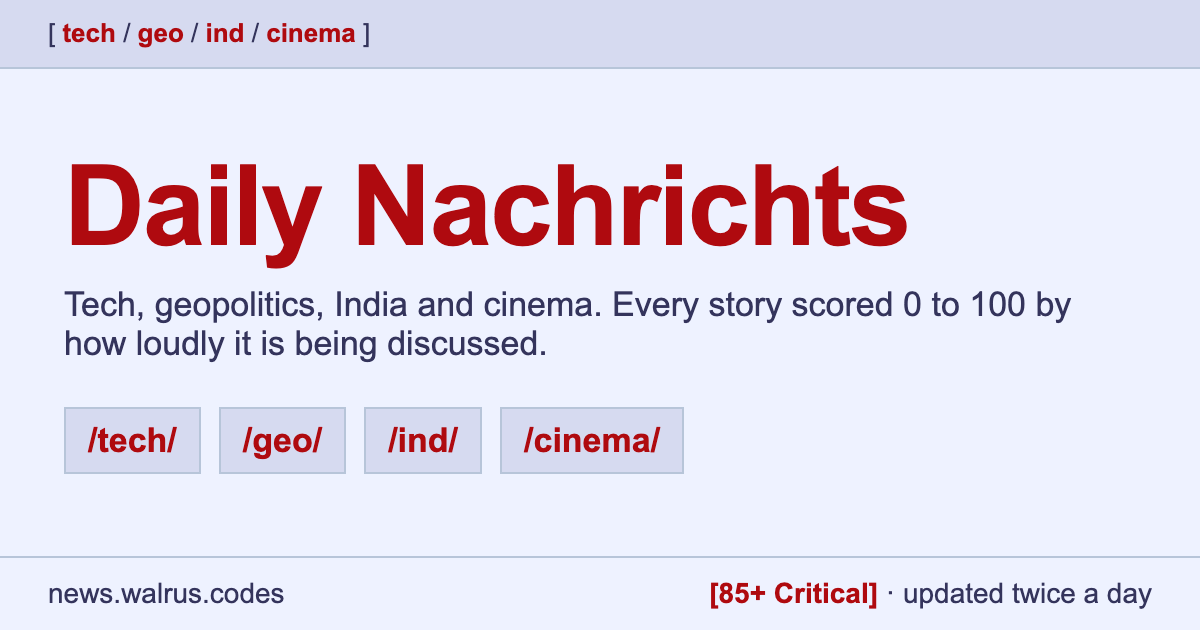
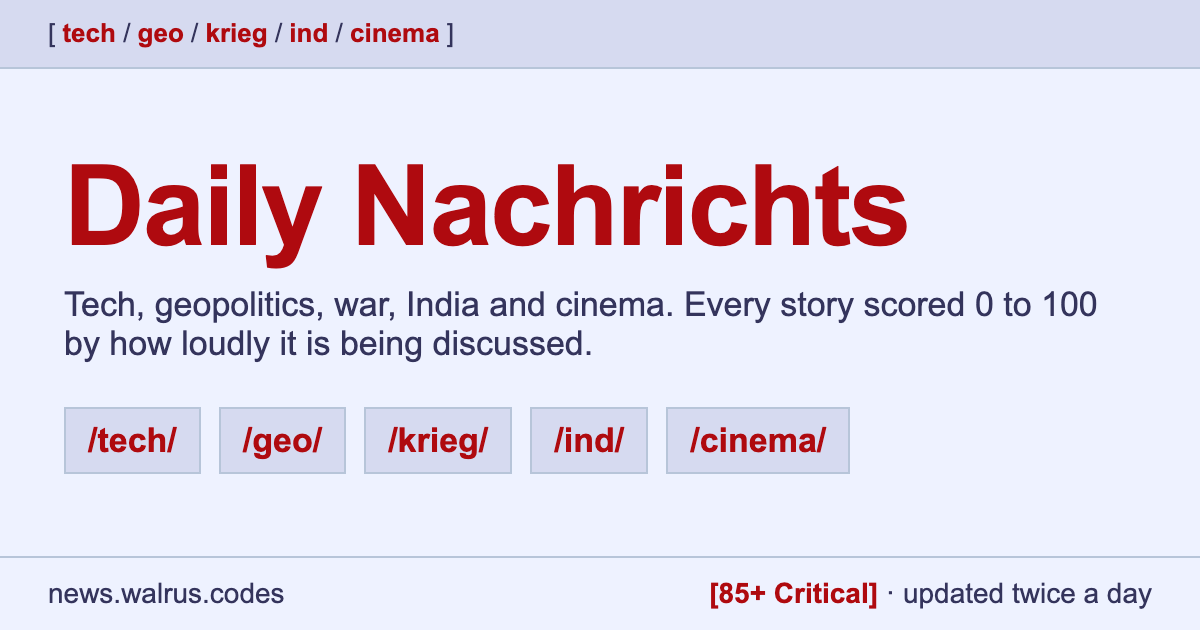
feat(krieg): add /krieg/ board for wars and armed conflicts

Changed region(s): [[0.0617, 0.4524, 0.925, 0.573], [0.3392, 0.6333, 0.7092, 0.754], [0.1542, 0.0302, 0.37, 0.0905]]

diff --git a/public/index.html b/public/index.html
@@ -8,20 +8,20 @@
 <meta property="og:type" content="website">
 <meta property="og:site_name" content="Daily Nachrichts">
 <meta property="og:title" content="Daily Nachrichts">
-<meta property="og:description" content="Tech, geopolitics, India and cinema, one board each, every story scored 0 to 100 by how loudly it is being discussed.">
+<meta property="og:description" content="Tech, geopolitics, war, India and cinema, one board each, every story scored 0 to 100 by how loudly it is being discussed.">
 <meta property="og:url" content="https://news.walrus.codes/">
 <meta property="og:image" content="https://news.walrus.codes/og.png">
 <meta property="og:image:type" content="image/png">
 <meta property="og:image:width" content="1200">
 <meta property="og:image:height" content="630">
-<meta property="og:image:alt" content="Daily Nachrichts: tech, geo, ind and cinema boards">
+<meta property="og:image:alt" content="Daily Nachrichts: tech, geo, krieg, ind and cinema boards">
 <meta name="twitter:card" content="summary_large_image">
 <meta name="twitter:image" content="https://news.walrus.codes/og.png">
-<meta name="description" content="Tech, geopolitics, India and cinema, one board each, every story scored by how loudly it is being discussed.">
+<meta name="description" content="Tech, geopolitics, war, India and cinema, one board each, every story scored by how loudly it is being discussed.">
 <link rel="stylesheet" href="/style.css">
 </head>
 <body>
-<div class="boardlist">[<a href="/tech/">tech</a> / <a href="/geo/">geo</a> / <a href="/ind/">ind</a> / <a href="/cinema/">cinema</a>]</div>
+<div class="boardlist">[<a href="/tech/">tech</a> / <a href="/geo/">geo</a> / <a href="/krieg/">krieg</a> / <a href="/ind/">ind</a> / <a href="/cinema/">cinema</a>]</div>
 <div class="banner">
   <h1>Daily Nachrichts</h1>
   <div class="sub" id="edition">loading</div>
@@ -46,7 +46,7 @@
   Score = how loudly a story is being talked about (0 to 100): 85+ Critical, 70-84 High, 40-69 Moderate, under 40 Low. Not an importance score.<br>
   <span id="stamp"></span>
 </div>
-<div class="boardlist bottom">[<a href="/tech/">tech</a> / <a href="/geo/">geo</a> / <a href="/ind/">ind</a> / <a href="/cinema/">cinema</a>]</div>
+<div class="boardlist bottom">[<a href="/tech/">tech</a> / <a href="/geo/">geo</a> / <a href="/krieg/">krieg</a> / <a href="/ind/">ind</a> / <a href="/cinema/">cinema</a>]</div>
 
 <script src="/day.js"></script>
 <script>
@@ -59,7 +59,7 @@
       // One entry per date: all Phoenix runs of that day merged (see /day.js). ?d=YYYY-MM-DD picks a past day.
       const { days, day, isLatest, data: d } = await Nachrichts.loadDay(new URLSearchParams(location.search));
       const q = day && !isLatest ? `?d=${encodeURIComponent(day.date)}` : '';
-      document.querySelectorAll('a[href="/tech/"], a[href="/geo/"], a[href="/ind/"], a[href="/cinema/"]').forEach(a => a.setAttribute('href', a.getAttribute('href') + q));
+      document.querySelectorAll('a[href="/tech/"], a[href="/geo/"], a[href="/krieg/"], a[href="/ind/"], a[href="/cinema/"]').forEach(a => a.setAttribute('href', a.getAttribute('href') + q));
       $('#editions').innerHTML = days.map((e, i) => {
         const here = day && day.date === e.date;
         const label = here ? `<b>${esc(e.label)}</b>` : esc(e.label);
@@ -71,7 +71,7 @@
       $('#standfirst').textContent = d.standfirst || '';
       $('#notes').innerHTML = (d.notes || []).map(n => `<li>${esc(n)}</li>`).join('');
       $('#stamp').textContent = `Generated ${d.generated} by ${d.model}`;
-      // Zurzeit: one group per news board (tech, geo, ind, and cinema from 2026-10-27), each with its five loudest threads.
+      // Zurzeit: one group per news board (tech, geo, ind, cinema from 2026-10-27, krieg from 2026-10-30), each with its five loudest threads.
       // Owner request 2026-10-23: "only 3 /category/ things on in that zurzeit thing" (one group per board, not more).
       $('#popular').innerHTML = d.sections.map(sec => {
         const tag = Nachrichts.slug(sec.id);

diff --git a/public/krieg/index.html b/public/krieg/index.html
@@ -1,0 +1,41 @@
+<!doctype html>
+<html lang="en">
+<head>
+<meta charset="utf-8">
+<meta name="viewport" content="width=device-width, initial-scale=1">
+<title>/krieg/ - Krieg - Daily Nachrichts</title>
+<meta name="description" content="Wars and armed conflicts around the world, from Iran and Ukraine to Gaza, Sudan and beyond, scored by how loudly they are being discussed.">
+<!-- Link previews (WhatsApp, iMessage, X, Slack). Owner request 2026-10-27: "put something there so that when I send it on whatsapp to someone they see a thumbnail." -->
+<meta property="og:type" content="website">
+<meta property="og:site_name" content="Daily Nachrichts">
+<meta property="og:title" content="/krieg/ - Krieg - Daily Nachrichts">
+<meta property="og:description" content="Wars and armed conflicts around the world, from Iran and Ukraine to Gaza, Sudan and beyond, scored by how loudly they are being discussed.">
+<meta property="og:url" content="https://news.walrus.codes/krieg/">
+<meta property="og:image" content="https://news.walrus.codes/og.png">
+<meta property="og:image:type" content="image/png">
+<meta property="og:image:width" content="1200">
+<meta property="og:image:height" content="630">
+<meta property="og:image:alt" content="Daily Nachrichts: tech, geo, krieg, ind and cinema boards">
+<meta name="twitter:card" content="summary_large_image">
+<meta name="twitter:image" content="https://news.walrus.codes/og.png">
+<link rel="stylesheet" href="/style.css">
+</head>
+<body data-board="krieg">
+<div class="boardlist">[<a href="/tech/">tech</a> / <a href="/geo/">geo</a> / <a href="/krieg/">krieg</a> / <a href="/ind/">ind</a> / <a href="/cinema/">cinema</a>] <span class="right">[<a href="/">Home</a>]</span></div>
+<div class="boardtitle">
+  <h1 id="board-title">/krieg/ - Krieg</h1>
+  <div class="blurb" id="board-blurb"></div>
+  <div class="edition" id="board-edition">loading</div>
+</div>
+<hr>
+<div class="filters">Show: <a href="?" data-min="0">[All]</a> <a href="?min=50" data-min="50">[50+]</a> <a href="?min=70" data-min="70">[70+]</a> <a href="?min=85" data-min="85">[Critical]</a> &nbsp; <span id="count" class="small"></span></div>
+<hr>
+<div id="threads"><p class="status">Loading...</p></div>
+<hr>
+<div class="frontbox" style="max-width:none;margin:10px 0"><div class="boxhead">Editions</div><div class="boxbody"><ul class="editions" id="editions"></ul></div></div>
+<div class="footer">Score = how loudly a story is being talked about (0 to 100): 85+ Critical, 70-84 High, 40-69 Moderate, under 40 Low. Not an importance score. [unverified] = one source or the claimant's own statement.</div>
+<div class="boardlist bottom">[<a href="/tech/">tech</a> / <a href="/geo/">geo</a> / <a href="/krieg/">krieg</a> / <a href="/ind/">ind</a> / <a href="/cinema/">cinema</a>] <span class="right">[<a href="/">Home</a>]</span></div>
+<script src="/day.js"></script>
+<script src="/board.js"></script>
+</body>
+</html>

diff --git a/public/board.js b/public/board.js
@@ -1,4 +1,4 @@
-/* Board page renderer. The page sets <body data-board="tech|geo|india|cinema">. Day via ?d=YYYY-MM-DD (all of that
+/* Board page renderer. The page sets <body data-board="tech|geo|krieg|india|cinema">. Day via ?d=YYYY-MM-DD (all of that
    day's Phoenix runs merged by /day.js; an old ?e=<file> link opens its day). */
 (function () {
   const $ = (s, el = document) => el.querySelector(s);
@@ -46,7 +46,7 @@
     if (!sec) {
       // /cinema/ started on 27 October 2026; older days have no cinema section.
       $('#board-edition').textContent = data.edition;
-      $('#threads').innerHTML = `<p class="status">This board has no threads for ${esc(data.edition)}.${BOARD === 'cinema' ? ' /cinema/ started on 27 October 2026.' : ''}</p>`;
+      $('#threads').innerHTML = `<p class="status">This board has no threads for ${esc(data.edition)}.${BOARD === 'cinema' ? ' /cinema/ started on 27 October 2026.' : ''}${BOARD === 'krieg' ? ' /krieg/ started on 30 October 2026; war stories from earlier days are on /geo/.' : ''}</p>`;
       $('#editions').innerHTML = days.map((e, i) => `<li><a href="${i === 0 ? '?' : `?d=${esc(e.date)}`}">${esc(e.label)}</a>${i === 0 ? ' <span class="small">(latest)</span>' : ''}</li>`).join('');
       return;
     }
@@ -84,7 +84,7 @@
       // Viewing a past day: keep it on the Home and board links.
       if (day && !got.isLatest) {
         const q = `?d=${encodeURIComponent(day.date)}`;
-        document.querySelectorAll('.boardlist a[href="/"], .boardlist a[href="/tech/"], .boardlist a[href="/geo/"], .boardlist a[href="/ind/"], .boardlist a[href="/cinema/"]').forEach(a => a.setAttribute('href', a.getAttribute('href') + q));
+        document.querySelectorAll('.boardlist a[href="/"], .boardlist a[href="/tech/"], .boardlist a[href="/geo/"], .boardlist a[href="/krieg/"], .boardlist a[href="/ind/"], .boardlist a[href="/cinema/"]').forEach(a => a.setAttribute('href', a.getAttribute('href') + q));
       }
       render();
       loadCard().catch(() => {}); // ready before a [Share] tap, which must not wait on the network

diff --git a/public/cinema/index.html b/public/cinema/index.html
@@ -15,13 +15,13 @@
 <meta property="og:image:type" content="image/png">
 <meta property="og:image:width" content="1200">
 <meta property="og:image:height" content="630">
-<meta property="og:image:alt" content="Daily Nachrichts: tech, geo, ind and cinema boards">
+<meta property="og:image:alt" content="Daily Nachrichts: tech, geo, krieg, ind and cinema boards">
 <meta name="twitter:card" content="summary_large_image">
 <meta name="twitter:image" content="https://news.walrus.codes/og.png">
 <link rel="stylesheet" href="/style.css">
 </head>
 <body data-board="cinema">
-<div class="boardlist">[<a href="/tech/">tech</a> / <a href="/geo/">geo</a> / <a href="/ind/">ind</a> / <a href="/cinema/">cinema</a>] <span class="right">[<a href="/">Home</a>]</span></div>
+<div class="boardlist">[<a href="/tech/">tech</a> / <a href="/geo/">geo</a> / <a href="/krieg/">krieg</a> / <a href="/ind/">ind</a> / <a href="/cinema/">cinema</a>] <span class="right">[<a href="/">Home</a>]</span></div>
 <div class="boardtitle">
   <h1 id="board-title">/cinema/ - Cinema</h1>
   <div class="blurb" id="board-blurb"></div>
@@ -34,7 +34,7 @@
 <hr>
 <div class="frontbox" style="max-width:none;margin:10px 0"><div class="boxhead">Editions</div><div class="boxbody"><ul class="editions" id="editions"></ul></div></div>
 <div class="footer">Score = how loudly a story is being talked about (0 to 100): 85+ Critical, 70-84 High, 40-69 Moderate, under 40 Low. Not an importance score. [unverified] = one source or the claimant's own statement.</div>
-<div class="boardlist bottom">[<a href="/tech/">tech</a> / <a href="/geo/">geo</a> / <a href="/ind/">ind</a> / <a href="/cinema/">cinema</a>] <span class="right">[<a href="/">Home</a>]</span></div>
+<div class="boardlist bottom">[<a href="/tech/">tech</a> / <a href="/geo/">geo</a> / <a href="/krieg/">krieg</a> / <a href="/ind/">ind</a> / <a href="/cinema/">cinema</a>] <span class="right">[<a href="/">Home</a>]</span></div>
 <script src="/day.js"></script>
 <script src="/board.js"></script>
 </body>

diff --git a/public/tech/index.html b/public/tech/index.html
@@ -15,13 +15,13 @@
 <meta property="og:image:type" content="image/png">
 <meta property="og:image:width" content="1200">
 <meta property="og:image:height" content="630">
-<meta property="og:image:alt" content="Daily Nachrichts: tech, geo, ind and cinema boards">
+<meta property="og:image:alt" content="Daily Nachrichts: tech, geo, krieg, ind and cinema boards">
 <meta name="twitter:card" content="summary_large_image">
 <meta name="twitter:image" content="https://news.walrus.codes/og.png">
 <link rel="stylesheet" href="/style.css">
 </head>
 <body data-board="tech">
-<div class="boardlist">[<a href="/tech/">tech</a> / <a href="/geo/">geo</a> / <a href="/ind/">ind</a> / <a href="/cinema/">cinema</a>] <span class="right">[<a href="/">Home</a>]</span></div>
+<div class="boardlist">[<a href="/tech/">tech</a> / <a href="/geo/">geo</a> / <a href="/krieg/">krieg</a> / <a href="/ind/">ind</a> / <a href="/cinema/">cinema</a>] <span class="right">[<a href="/">Home</a>]</span></div>
 <div class="boardtitle">
   <h1 id="board-title">/tech/ - Technology</h1>
   <div class="blurb" id="board-blurb"></div>
@@ -34,7 +34,7 @@
 <hr>
 <div class="frontbox" style="max-width:none;margin:10px 0"><div class="boxhead">Editions</div><div class="boxbody"><ul class="editions" id="editions"></ul></div></div>
 <div class="footer">Score = how loudly a story is being talked about (0 to 100): 85+ Critical, 70-84 High, 40-69 Moderate, under 40 Low. Not an importance score. [unverified] = one source or the claimant's own statement.</div>
-<div class="boardlist bottom">[<a href="/tech/">tech</a> / <a href="/geo/">geo</a> / <a href="/ind/">ind</a> / <a href="/cinema/">cinema</a>] <span class="right">[<a href="/">Home</a>]</span></div>
+<div class="boardlist bottom">[<a href="/tech/">tech</a> / <a href="/geo/">geo</a> / <a href="/krieg/">krieg</a> / <a href="/ind/">ind</a> / <a href="/cinema/">cinema</a>] <span class="right">[<a href="/">Home</a>]</span></div>
 <script src="/day.js"></script>
 <script src="/board.js"></script>
 </body>

diff --git a/public/geo/index.html b/public/geo/index.html
@@ -15,13 +15,13 @@
 <meta property="og:image:type" content="image/png">
 <meta property="og:image:width" content="1200">
 <meta property="og:image:height" content="630">
-<meta property="og:image:alt" content="Daily Nachrichts: tech, geo, ind and cinema boards">
+<meta property="og:image:alt" content="Daily Nachrichts: tech, geo, krieg, ind and cinema boards">
 <meta name="twitter:card" content="summary_large_image">
 <meta name="twitter:image" content="https://news.walrus.codes/og.png">
 <link rel="stylesheet" href="/style.css">
 </head>
 <body data-board="geo">
-<div class="boardlist">[<a href="/tech/">tech</a> / <a href="/geo/">geo</a> / <a href="/ind/">ind</a> / <a href="/cinema/">cinema</a>] <span class="right">[<a href="/">Home</a>]</span></div>
+<div class="boardlist">[<a href="/tech/">tech</a> / <a href="/geo/">geo</a> / <a href="/krieg/">krieg</a> / <a href="/ind/">ind</a> / <a href="/cinema/">cinema</a>] <span class="right">[<a href="/">Home</a>]</span></div>
 <div class="boardtitle">
   <h1 id="board-title">/geo/ - Geopolitics</h1>
   <div class="blurb" id="board-blurb"></div>
@@ -34,7 +34,7 @@
 <hr>
 <div class="frontbox" style="max-width:none;margin:10px 0"><div class="boxhead">Editions</div><div class="boxbody"><ul class="editions" id="editions"></ul></div></div>
 <div class="footer">Score = how loudly a story is being talked about (0 to 100): 85+ Critical, 70-84 High, 40-69 Moderate, under 40 Low. Not an importance score. [unverified] = one source or the claimant's own statement.</div>
-<div class="boardlist bottom">[<a href="/tech/">tech</a> / <a href="/geo/">geo</a> / <a href="/ind/">ind</a> / <a href="/cinema/">cinema</a>] <span class="right">[<a href="/">Home</a>]</span></div>
+<div class="boardlist bottom">[<a href="/tech/">tech</a> / <a href="/geo/">geo</a> / <a href="/krieg/">krieg</a> / <a href="/ind/">ind</a> / <a href="/cinema/">cinema</a>] <span class="right">[<a href="/">Home</a>]</span></div>
 <script src="/day.js"></script>
 <script src="/board.js"></script>
 </body>

diff --git a/public/ind/index.html b/public/ind/index.html
@@ -15,13 +15,13 @@
 <meta property="og:image:type" content="image/png">
 <meta property="og:image:width" content="1200">
 <meta property="og:image:height" content="630">
-<meta property="og:image:alt" content="Daily Nachrichts: tech, geo, ind and cinema boards">
+<meta property="og:image:alt" content="Daily Nachrichts: tech, geo, krieg, ind and cinema boards">
 <meta name="twitter:card" content="summary_large_image">
 <meta name="twitter:image" content="https://news.walrus.codes/og.png">
 <link rel="stylesheet" href="/style.css">
 </head>
 <body data-board="india">
-<div class="boardlist">[<a href="/tech/">tech</a> / <a href="/geo/">geo</a> / <a href="/ind/">ind</a> / <a href="/cinema/">cinema</a>] <span class="right">[<a href="/">Home</a>]</span></div>
+<div class="boardlist">[<a href="/tech/">tech</a> / <a href="/geo/">geo</a> / <a href="/krieg/">krieg</a> / <a href="/ind/">ind</a> / <a href="/cinema/">cinema</a>] <span class="right">[<a href="/">Home</a>]</span></div>
 <div class="boardtitle">
   <h1 id="board-title">/ind/ - India</h1>
   <div class="blurb" id="board-blurb"></div>
@@ -34,7 +34,7 @@
 <hr>
 <div class="frontbox" style="max-width:none;margin:10px 0"><div class="boxhead">Editions</div><div class="boxbody"><ul class="editions" id="editions"></ul></div></div>
 <div class="footer">Score = how loudly a story is being talked about (0 to 100): 85+ Critical, 70-84 High, 40-69 Moderate, under 40 Low. Not an importance score. [unverified] = one source or the claimant's own statement.</div>
-<div class="boardlist bottom">[<a href="/tech/">tech</a> / <a href="/geo/">geo</a> / <a href="/ind/">ind</a> / <a href="/cinema/">cinema</a>] <span class="right">[<a href="/">Home</a>]</span></div>
+<div class="boardlist bottom">[<a href="/tech/">tech</a> / <a href="/geo/">geo</a> / <a href="/krieg/">krieg</a> / <a href="/ind/">ind</a> / <a href="/cinema/">cinema</a>] <span class="right">[<a href="/">Home</a>]</span></div>
 <script src="/day.js"></script>
 <script src="/board.js"></script>
 </body>

diff --git a/og-source/og.html b/og-source/og.html
@@ -14,11 +14,11 @@
   .score { color: #af0a0f; font-weight: 700; }
 </style></head>
 <body>
-  <div class="bar">[ <b>tech</b> / <b>geo</b> / <b>ind</b> / <b>cinema</b> ]</div>
+  <div class="bar">[ <b>tech</b> / <b>geo</b> / <b>krieg</b> / <b>ind</b> / <b>cinema</b> ]</div>
   <div class="main">
     <h1>Daily Nachrichts</h1>
-    <div class="sub">Tech, geopolitics, India and cinema. Every story scored 0 to 100 by how loudly it is being discussed.</div>
-    <div class="boards"><span>/tech/</span><span>/geo/</span><span>/ind/</span><span>/cinema/</span></div>
+    <div class="sub">Tech, geopolitics, war, India and cinema. Every story scored 0 to 100 by how loudly it is being discussed.</div>
+    <div class="boards"><span>/tech/</span><span>/geo/</span><span>/krieg/</span><span>/ind/</span><span>/cinema/</span></div>
   </div>
   <div class="foot"><span>news.walrus.codes</span><span><span class="score">[85+ Critical]</span> &middot; updated twice a day</span></div>
 </body></html>

diff --git a/public/day.js b/public/day.js
@@ -28,7 +28,12 @@
       if (!secs.has(sec.id)) { secs.set(sec.id, { meta: sec, stories: new Map() }); order.push(sec.id); }
       const slot = secs.get(sec.id);
       slot.meta = sec; // newest title and blurb win
-      sec.stories.forEach(st => { slot.stories.delete(st.id); slot.stories.set(st.id, { ...st, generated: run.generated }); });
+      sec.stories.forEach(st => {
+        // A story moved to another board in a later run (war stories went from geo to krieg on 2026-10-30) is shown
+        // once, on its newest board. A story carried over unchanged keeps its own "generated" time.
+        secs.forEach(other => other.stories.delete(st.id));
+        slot.stories.set(st.id, { ...st, generated: st.generated || run.generated });
+      });
     }));
     const newestOrder = newest.sections.map(s => s.id);
     const ids = [...newestOrder, ...order.filter(id => !newestOrder.includes(id))];

diff --git a/CLAUDE.md b/CLAUDE.md
@@ -1,9 +1,9 @@
 # Daily Nachrichts (personal project, not ProCMO work)
 
-_Last updated: 2026-10-30 07:45 UTC (13:15 IST) by Claude Opus 5.5 (claude-opus-5-5)_
+_Last updated: 2026-10-30 14:24 UTC (19:54 IST) by Claude Opus 5.5 (claude-opus-5-5)_
 
-Static news site for Walrus in a plain imageboard layout: a front page listing four news boards
-(/tech/, /geo/, /ind/, /cinema/; /cinema/ added 2026-10-27) with popular threads, today's notes and the edition list; each board page
+Static news site for Walrus in a plain imageboard layout: a front page listing five news boards
+(/tech/, /geo/, /krieg/, /ind/, /cinema/; /cinema/ added 2026-10-27, /krieg/ 2026-10-30) with popular threads, today's notes and the edition list; each board page
 lists that section's stories as threads (expand to read the detail paragraphs and sources). A 0-100
 criticality score per story. Served at https://news.walrus.codes by the assets-only Cloudflare Worker `daily-nachrichts` in Walrus's personal Cloudflare account, deployed by GitHub Actions on every push to main of https://github.com/JATIN-RAGHAV/daily-nachrichts (wrangler is never run locally). Vercel hosting was dropped on 2026-10-23 (owner ruling: "make this not deploy on vercel but deploy this as a worker on cloudflare", then "put this worker on news.walrus.codes"); the old Vercel deployment at daily-brief-delta-pied.vercel.app is no longer updated. Nothing here goes into
 pro-cmo-brain or the Library of Alexandria: this is personal.
@@ -16,6 +16,7 @@ pro-cmo-brain or the Library of Alexandria: this is personal.
 | public/index.html | Front page: no Boards box (owner request 2026-10-23: "remove the boards section"; boards are reached from the top and bottom board lists), "Zurzeit Threads" (renamed from Popular Threads on owner request 2026-10-23), grouped by news board (/tech/, /geo/, /ind/, and /cinema/ from 2026-10-27) with each board's five loudest threads (owner request 2026-10-23: "only 3 /category/ things on in that zurzeit thing", when there were three boards), the day's headline and notes, one Editions line per date. Data comes from day.js (formerly /data/latest.json or `/?e=<file>`). The Editions list links to each edition's front page (owner request 2026-10-23: "those editions that I have at the bottom should open up the home page for that edition"); board and thread links keep `?d=` for a past day. |
 | public/tech/, public/geo/, public/ind/ | One index.html per board (identical shells, `<body data-board>` differs). The India board is shown as /ind/ (owner request 2026-10-23: "chagne the name to IND instead of india"); its section id in the data stays `india`, so editions, CI and publish.py are unchanged. |
 | public/_redirects | /india/ and anything under it redirect (301) to /ind/; /wort/ redirects (301) to / since 2026-10-30. |
+| public/krieg/index.html | The /krieg/ board (added 2026-10-30): every war and armed conflict worldwide (Iran, Ukraine, Gaza, Sudan and the rest), section id `krieg`, placed after geo. War stories no longer go on /geo/. Days before 2026-10-30 have no krieg section; their war stories stay on /geo/ (past editions are not edited), and the board says so. /kreig/ redirects here. |
 | public/cinema/index.html | The /cinema/ board (added 2026-10-27): Hollywood and Bollywood movie news in one board, section id `cinema`, same shell as the other boards. Days before 2026-10-27 have no cinema section; the board says so. |
 | archive/wort/ | The former /wort/ board (page, wort.js, wort.json), removed from the site 2026-10-30 on owner request ("also remove the wort section."). Kept unchanged, not served; /wort/ redirects to /. See archive/wort/README.md. |
 | public/board.js | Board renderer: threads sorted by score, an optional per-story `about` shown first as an "About" post when a thread is expanded (added 2026-10-27: who or what a less-known subject is; left out for well-known names, rule in the Phoenix skill step 6), `?d=` day via day.js (kept on the Home and board links for a past day), `?min=` filter, `#story-id` opens a thread. Each thread's dateline is the time of the run it came from. |
@@ -162,6 +163,19 @@ to main; the GitHub Actions deploy publishes it.
   limited to the news boards (ruling of 2026-10-23: one group per board); /wort/ is reached from the board list.
   Since 2026-10-27 the news boards are four (cinema added), so Zurzeit shows four groups; open question put to
   Walrus the same day.
+
+## Krieg board (2026-10-30)
+
+Owner request 2026-10-30: "add a section about war there, name it kreig, It shall have all the war related things that
+happen around the world. like Iran war and ukrain war. and remove the war stuff from the geo section."
+
+- Every edition from 2026-10-30-2 on has five sections, `tech`, `geo`, `krieg`, `india`, `cinema`, in that order
+  (publish.py checks this, and that no story id is on two boards). The CI check accepts three, four or five sections.
+- /geo/ keeps geopolitics that is not war; anything about a war or armed conflict goes on /krieg/ (rules in the
+  Phoenix skill, step 2a).
+- Run 2026-10-30-2 moved that day's six war stories from geo to krieg under the same ids. public/day.js shows a story
+  that moved boards between runs once, on its newest board, and a story with its own `generated` field (a story
+  carried over unchanged into a later run) keeps that time on its dateline.
 
 ## Cinema board (2026-10-27)
 
